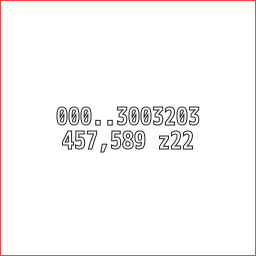
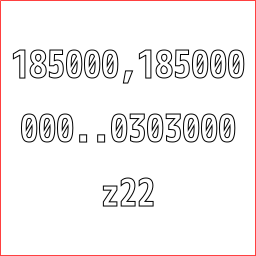
feat: split zoom onto seperate line to allow for higher zoom levels

diff --git a/src/img.ts b/src/img.ts
@@ -3,7 +3,7 @@ import { QuadKey } from './quad.key';
 import * as NodeCanvas from 'canvas';
 
 const CANVAS_SIZE = 256;
-const FONT_SIZE = CANVAS_SIZE / 8;
+const FONT_SIZE = CANVAS_SIZE / 6;
 
 async function xyzPng(v: Vector) {
     let qk = QuadKey.toQuadKey(v);
@@ -11,9 +11,12 @@ async function xyzPng(v: Vector) {
     if (qk.length > 10) {
         qk = qk.slice(0, 3) + '..' + qk.slice(qk.length - 7);
     }
-    const xyzS = `${v.x},${v.y} z${v.z}`;
+    const xyzS = `${v.x},${v.y}`;
     const canvas = NodeCanvas.createCanvas(CANVAS_SIZE, CANVAS_SIZE);
     const ctx = canvas.getContext('2d');
+
+    const halfCanvas = CANVAS_SIZE / 2;
+    const quarterCanvas = CANVAS_SIZE / 4;
 
     // Fill & Stroke the center text
     ctx.textAlign = 'center';
@@ -21,10 +24,12 @@ async function xyzPng(v: Vector) {
     ctx.font = `bold ${FONT_SIZE}px "m+ 1m"`;
     ctx.fillStyle = 'rgba(255,255,255,1)';
     ctx.strokeStyle = 'rgba(0,0,0,1)';
-    ctx.fillText(xyzS, CANVAS_SIZE / 2, CANVAS_SIZE / 2 + FONT_SIZE / 2);
-    ctx.strokeText(xyzS, CANVAS_SIZE / 2, CANVAS_SIZE / 2 + FONT_SIZE / 2);
-    ctx.fillText(qk, CANVAS_SIZE / 2, CANVAS_SIZE / 2 - FONT_SIZE / 2);
-    ctx.strokeText(qk, CANVAS_SIZE / 2, CANVAS_SIZE / 2 - FONT_SIZE / 2);
+    ctx.fillText(xyzS, halfCanvas, quarterCanvas);
+    ctx.strokeText(xyzS, halfCanvas, quarterCanvas);
+    ctx.fillText(qk, halfCanvas, quarterCanvas * 2);
+    ctx.strokeText(qk, halfCanvas, quarterCanvas * 2);
+    ctx.fillText(`z${v.z}`, halfCanvas, quarterCanvas * 3);
+    ctx.strokeText(`z${v.z}`, halfCanvas, quarterCanvas * 3);
 
     // Stroke around the edges
     ctx.strokeStyle = 'rgba(255,0,0,0.75)';
